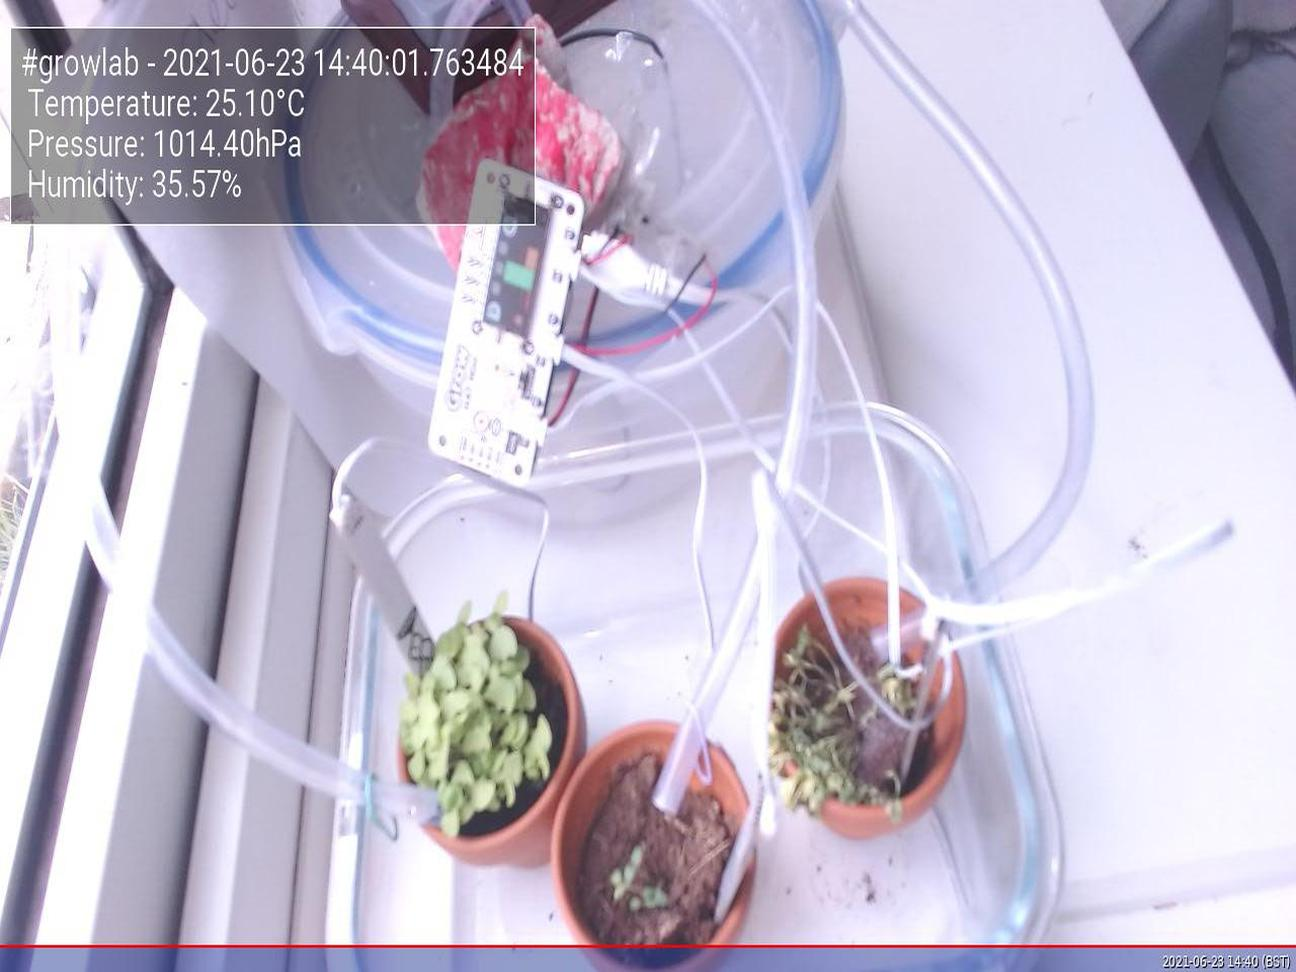
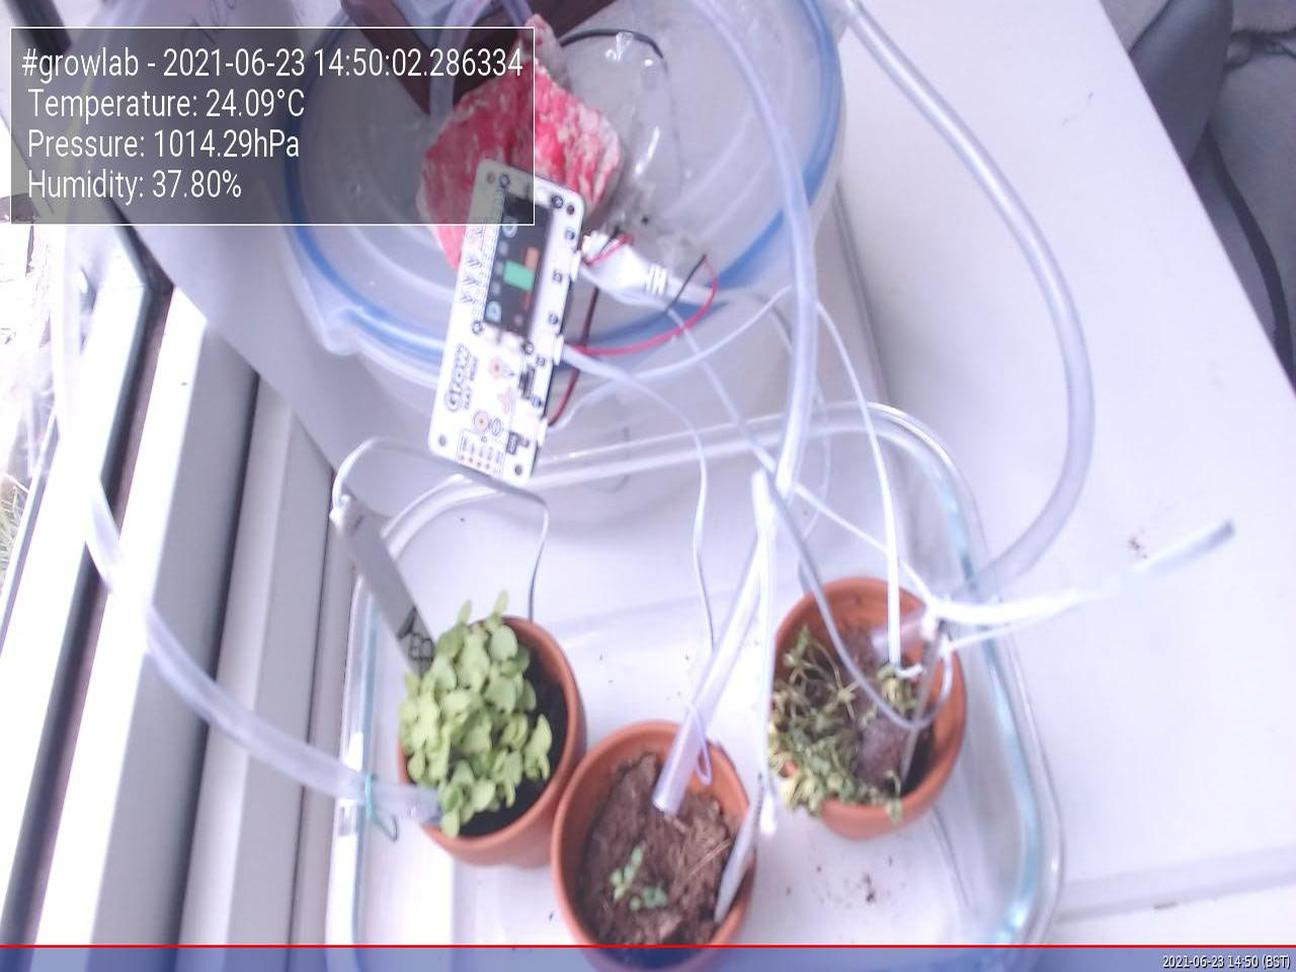
Update images at Wed 23 Jun 14:50:06 BST 2021

diff --git a/app/docs/index.html b/app/docs/index.html
@@ -47,19 +47,19 @@
                         <tbody>
                             <tr>
                                 <td>Time</td>
-                                <td>2021-06-23 14:40:01.763484</td>
+                                <td>2021-06-23 14:50:02.286334</td>
                             </tr>
                             <tr>
                                 <td>Temperature</td>
-                                <td>25.10°C</td>
+                                <td>24.09°C</td>
                             </tr>
                             <tr>
                                 <td>Humidity</td>
-                                <td>35.57%</td>
+                                <td>37.80%</td>
                             </tr>
                             <tr>
                                 <td>Pressure</td>
-                                <td>1014.40hPa</td>
+                                <td>1014.29hPa</td>
                             </tr>
                         </tbody>
                     </table>
@@ -67,7 +67,7 @@
 
                 <h5>Latest image</h5>
                 <div style="width: 85%;">
-                            <img class="figure-img img-fluid rounded" src="./preview.jpg?uid=1624455605.5349998">
+                            <img class="figure-img img-fluid rounded" src="./preview.jpg?uid=1624456206.0763233">
                 </div>
             </div>
         </div>
